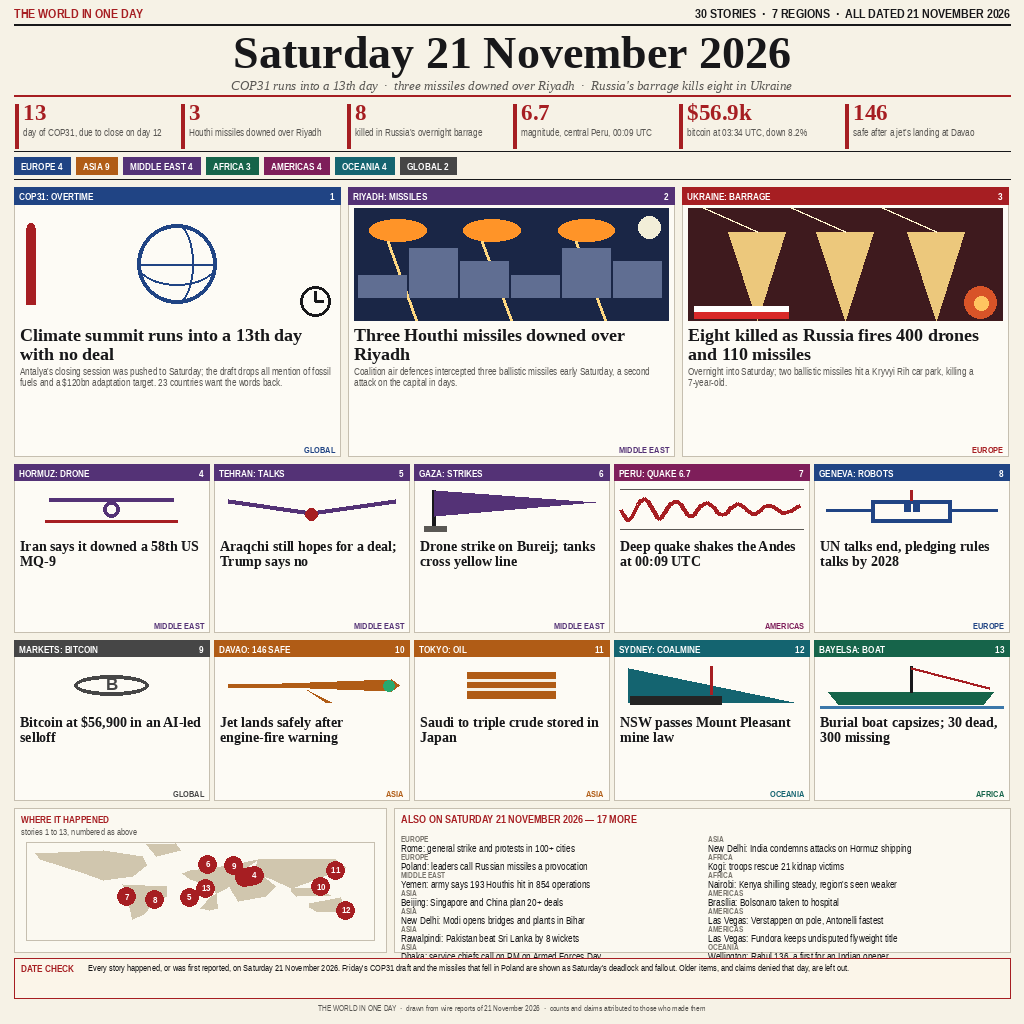
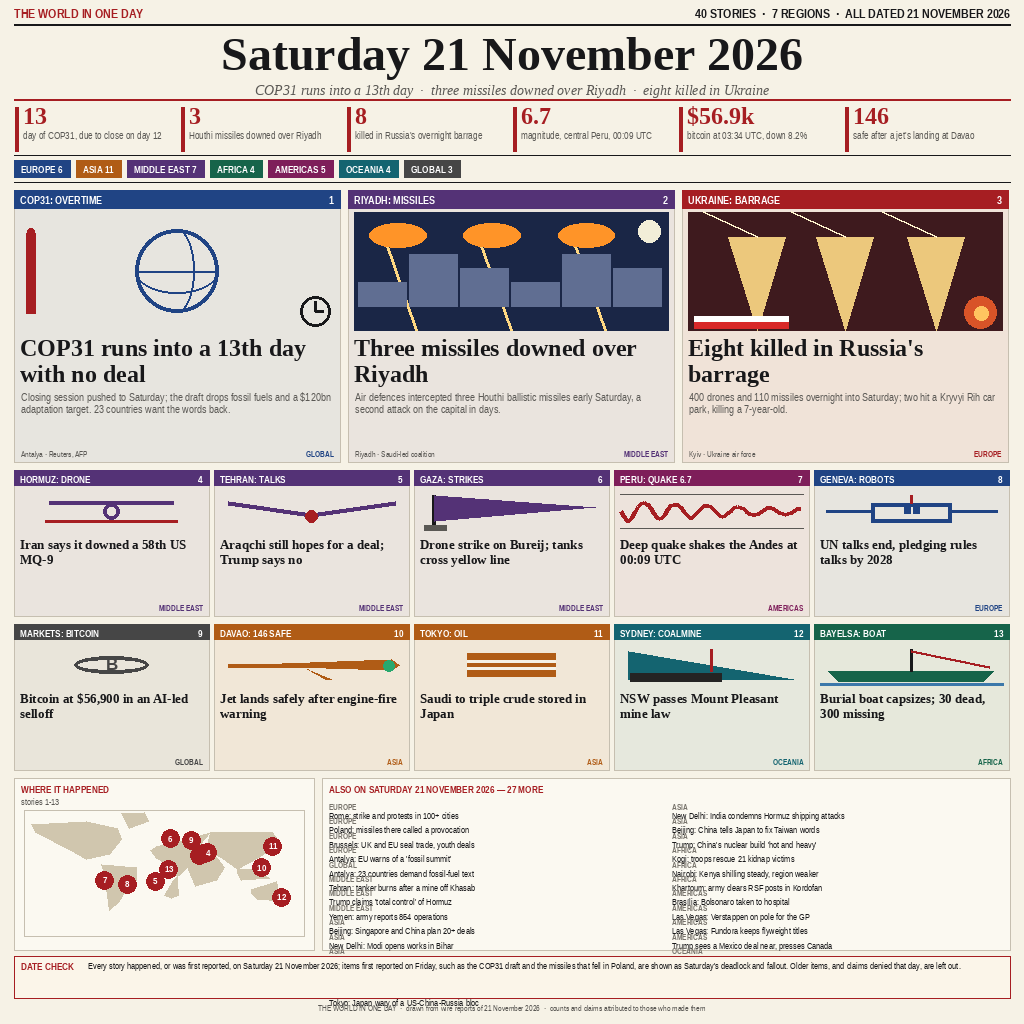
40 dated stories: bigger lead cards, wider story set

diff --git a/tools/render.py b/tools/render.py
@@ -1,5 +1,9 @@
 #!/usr/bin/env python3
-"""Draw 'THE WORLD IN ONE DAY' - Saturday 21 November 2026 (1024x1024)."""
+"""Draw 'THE WORLD IN ONE DAY' - Saturday 21 November 2026 (1024x1024).
+
+The page carries 40 stories from seven regions, all dated to the day, and is
+drawn from fixed inputs: the same code writes the same bytes on every run.
+"""
 import math
 from PIL import Image, ImageDraw, ImageFont
 
@@ -66,42 +70,39 @@ def box(x0, y0, x1, y1, fill=None, outline=GRAY, w=1):
 # ---------------- masthead ----------------
 f_rail = F(NB, 13)
 text(PAD, 5, "THE WORLD IN ONE DAY", f_rail, RED)
-text(W - PAD, 5, "30 STORIES  \u00b7  7 REGIONS  \u00b7  ALL DATED 21 NOVEMBER 2026",
-     f_rail, INK, "ra")
+text(W - PAD, 5, "40 STORIES  \u00b7  7 REGIONS  \u00b7  ALL DATED 21 NOVEMBER 2026", f_rail, INK, "ra")
 rule(24, w=2)
 
-text(W // 2, 27, "Saturday 21 November 2026", F(SB, 46), INK, "ma")
-text(W // 2, 78, "COP31 runs into a 13th day  \u00b7  three missiles downed over Riyadh  \u00b7  Russia's barrage kills eight in Ukraine",
-     F(SI, 13), GRAY, "ma")
-rule(95, col=RED, w=2)
+text(W // 2, 27, "Saturday 21 November 2026", F(SB, 48), INK, "ma")
+text(W // 2, 82, "COP31 runs into a 13th day  \u00b7  three missiles downed over Riyadh  \u00b7  eight killed in Ukraine",
+     F(SI, 14), GRAY, "ma")
+rule(99, col=RED, w=2)
 
-# ---------------- stat strip ----------------
 stats = [("13", "day of COP31, due to close on day 12"),
          ("3", "Houthi missiles downed over Riyadh"),
          ("8", "killed in Russia's overnight barrage"),
          ("6.7", "magnitude, central Peru, 00:09 UTC"),
          ("$56.9k", "bitcoin at 03:34 UTC, down 8.2%"),
          ("146", "safe after a jet's landing at Davao")]
-bx = PAD
 bw = (W - 2 * PAD) // 6
-f_num, f_lab = F(SB, 23), F(NR, 10)
+f_num, f_lab = F(SB, 24), F(NR, 10)
 for i, (num, lab) in enumerate(stats):
-    x0 = bx + i * bw
-    d.rectangle([x0 + 1, 104, x0 + 4, 148], fill=RED)
-    text(x0 + 9, 99, num, f_num, RED)
-    para(x0 + 9, 126, lab, f_lab, bw - 14, GRAY, lh=10, maxlines=2)
-rule(151)
+    x0 = PAD + i * bw
+    d.rectangle([x0 + 1, 107, x0 + 4, 151], fill=RED)
+    text(x0 + 9, 102, num, f_num, RED)
+    para(x0 + 9, 129, lab, f_lab, bw - 14, GRAY, lh=10, maxlines=2)
+rule(155)
 
-regions = [("EUROPE 4", C_EU), ("ASIA 9", C_AS), ("MIDDLE EAST 4", C_ME), ("AFRICA 3", C_AF),
-           ("AMERICAS 4", C_AM), ("OCEANIA 4", C_OC), ("GLOBAL 2", C_GL)]
+regions = [("EUROPE 6", C_EU), ("ASIA 11", C_AS), ("MIDDLE EAST 7", C_ME), ("AFRICA 4", C_AF),
+           ("AMERICAS 5", C_AM), ("OCEANIA 4", C_OC), ("GLOBAL 3", C_GL)]
 f_reg = F(NB, 10)
 rx = PAD
 for lab, col in regions:
     wt = tw(lab, f_reg) + 14
-    d.rectangle([rx, 157, rx + wt, 174], fill=col)
-    text(rx + 7, 160, lab, f_reg, (255, 255, 255))
+    d.rectangle([rx, 160, rx + wt, 177], fill=col)
+    text(rx + 7, 163, lab, f_reg, (255, 255, 255))
     rx += wt + 6
-rule(179)
+rule(182)
 
 # ---------------- pictograms ----------------
 def icon(kind, x0, y0, x1, y1, accent):
@@ -216,6 +217,8 @@ def icon(kind, x0, y0, x1, y1, accent):
         d.rectangle([x0 + 8, y0 + 6, x1 - 8, y1 - 6], outline=accent, width=3)
 
 # ---------------- card ----------------
+# one card = colour bar + pictogram + serif headline + optional deck; the accent
+# colour is the story's region, so the page reads as regions at a glance.
 def card(x0, y0, x1, y1, kind, label, headline, accent, region, hl=14, ic=48, num=None,
          deck=None, bar=15):
     box(x0, y0, x1, y1, fill=(253, 251, 245), outline=(198, 191, 176))
@@ -233,23 +236,46 @@ def card(x0, y0, x1, y1, kind, label, headline, accent, region, hl=14, ic=48, nu
         para(x0 + 6, yy + 3, deck, F(NR, 10), x1 - x0 - 12, GRAY, lh=11, maxlines=4)
     text(x1 - 5, y1 - 12, region, F(NB, 9), accent, "ra")
 
+
+def tint(accent, k=0.10):
+    return tuple(int(CREAM[c] * (1 - k) + accent[c] * k) for c in range(3))
+
+def card(x0, y0, x1, y1, kind, label, headline, accent, region, hl=14, ic=48, num=None,
+         deck=None, bar=15, src=None):
+    box(x0, y0, x1, y1, fill=tint(accent, 0.07), outline=(198, 191, 176))
+    d.rectangle([x0, y0, x1, y0 + bar], fill=accent)
+    f_lab = F(NB, 11 if bar >= 17 else 10)
+    text(x0 + 6, y0 + int(bar * 0.2), label, f_lab, (255, 255, 255))
+    if num is not None:
+        text(x1 - 6, y0 + int(bar * 0.2), str(num), f_lab, (255, 255, 255), "ra")
+    iw = x1 - x0 - 12
+    icon(kind, x0 + 6, y0 + bar + 4, x0 + 6 + iw, y0 + bar + 4 + ic, accent)
+    yy = y0 + bar + 8 + ic
+    yy = para(x0 + 6, yy, headline, F(SB, hl), x1 - x0 - 12, INK, lh=hl + 2, maxlines=3)
+    if deck:
+        yy = para(x0 + 7, yy + 4, deck, F(NR, 11), x1 - x0 - 14, GRAY, lh=12, maxlines=3)
+    base = y1 - 13
+    text(x1 - 6, base, region, F(NB, 8), accent, "ra")
+    if src:
+        text(x0 + 7, base, src, F(NR, 8), GRAY)
+
 LEADS = [
-    dict(kind="globe", label="COP31: OVERTIME", accent=C_EU, region="GLOBAL",
-         headline="Climate summit runs into a 13th day with no deal",
-         deck="Antalya's closing session was pushed to Saturday; the draft drops all mention of fossil fuels and a $120bn adaptation target. 23 countries want the words back."),
-    dict(kind="missiles", label="RIYADH: MISSILES", accent=C_ME, region="MIDDLE EAST",
-         headline="Three Houthi missiles downed over Riyadh",
-         deck="Coalition air defences intercepted three ballistic missiles early Saturday, a second attack on the capital in days."),
-    dict(kind="barrage", label="UKRAINE: BARRAGE", accent=RED, region="EUROPE",
-         headline="Eight killed as Russia fires 400 drones and 110 missiles",
-         deck="Overnight into Saturday; two ballistic missiles hit a Kryvyi Rih car park, killing a 7-year-old."),
+    dict(kind="globe", label="COP31: OVERTIME", accent=C_EU, region="GLOBAL", src="Antalya \u00b7 Reuters, AFP",
+         headline="COP31 runs into a 13th day with no deal",
+         deck="Closing session pushed to Saturday; the draft drops fossil fuels and a $120bn adaptation target. 23 countries want the words back."),
+    dict(kind="missiles", label="RIYADH: MISSILES", accent=C_ME, region="MIDDLE EAST", src="Riyadh \u00b7 Saudi-led coalition",
+         headline="Three missiles downed over Riyadh",
+         deck="Air defences intercepted three Houthi ballistic missiles early Saturday, a second attack on the capital in days."),
+    dict(kind="barrage", label="UKRAINE: BARRAGE", accent=RED, region="EUROPE", src="Kyiv \u00b7 Ukraine air force",
+         headline="Eight killed in Russia's barrage",
+         deck="400 drones and 110 missiles overnight into Saturday; two hit a Kryvyi Rih car park, killing a 7-year-old."),
 ]
-cy0, cy1 = 187, 456
+cy0, cy1 = 190, 462
 cw = (W - 2 * PAD - 2 * 8) // 3
 for i, s in enumerate(LEADS):
     x0 = PAD + i * (cw + 8)
     card(x0, cy0, x0 + cw, cy1, s["kind"], s["label"], s["headline"], s["accent"], s["region"],
-         hl=18, ic=112, num=i + 1, deck=s["deck"], bar=17)
+         hl=24, ic=118, num=i + 1, deck=s["deck"], bar=18, src=s["src"])
 
 ROW2 = [("drone", "HORMUZ: DRONE", "Iran says it downed a 58th US MQ-9", C_ME, "MIDDLE EAST", 4),
         ("handshake", "TEHRAN: TALKS", "Araqchi still hopes for a deal; Trump says no", C_ME, "MIDDLE EAST", 5),
@@ -266,19 +292,18 @@ def draw_row(row, y0, y1):
     cwid = (W - 2 * PAD - 4 * 5) // 5
     for i, (kind, label, head, accent, region, num) in enumerate(row):
         x0 = PAD + i * (cwid + 5)
-        card(x0, y0, x0 + cwid, y1, kind, label, head, accent, region, hl=14, ic=50, num=num, bar=16)
+        card(x0, y0, x0 + cwid, y1, kind, label, head, accent, region, hl=13, ic=44, num=num, bar=15)
 
-draw_row(ROW2, 464, 632)
-draw_row(ROW3, 640, 800)
+draw_row(ROW2, 470, 616)
+draw_row(ROW3, 624, 770)
 
-# ---------------- bottom ----------------
-MY0, MY1 = 808, 952
-mx1 = PAD + 372
+MY0, MY1 = 778, 950
+mx1 = PAD + 300
 box(PAD, MY0, mx1, MY1, fill=(251, 249, 241), outline=(198, 191, 176))
 text(PAD + 7, MY0 + 5, "WHERE IT HAPPENED", F(NB, 10), RED)
-text(PAD + 7, MY0 + 18, "stories 1 to 13, numbered as above", F(NR, 9), GRAY)
-mw0, mw1 = PAD + 12, mx1 - 12
-mh0, mh1 = MY0 + 34, MY1 - 12
+text(PAD + 7, MY0 + 18, "stories 1-13", F(NR, 9), GRAY)
+mw0, mw1 = PAD + 10, mx1 - 10
+mh0, mh1 = MY0 + 32, MY1 - 14
 LAND = (208, 198, 174)
 cons = [[(-170, 65), (-100, 70), (-60, 60), (-55, 45), (-70, 25), (-100, 18), (-120, 30), (-165, 55)],
         [(-80, 12), (-35, 8), (-35, -10), (-50, -25), (-58, -40), (-70, -50), (-76, 0)],
@@ -307,44 +332,54 @@ for lon, lat, n in dots:
 ax1 = W - PAD
 box(mx1 + 8, MY0, ax1, MY1, fill=(251, 249, 241), outline=(198, 191, 176))
 ALSO = [
-    ("EUROPE", "Rome: general strike and protests in 100+ cities"),
-    ("EUROPE", "Poland: leaders call Russian missiles a provocation"),
-    ("MIDDLE EAST", "Yemen: army says 193 Houthis hit in 854 operations"),
+    ("EUROPE", "Rome: strike and protests in 100+ cities"),
+    ("EUROPE", "Poland: missiles there called a provocation"),
+    ("EUROPE", "Brussels: UK and EU seal trade, youth deals"),
+    ("EUROPE", "Antalya: EU warns of a 'fossil summit'"),
+    ("GLOBAL", "Antalya: 23 countries demand fossil-fuel text"),
+    ("MIDDLE EAST", "Tehran: tanker burns after a mine off Khasab"),
+    ("MIDDLE EAST", "Trump claims 'total control' of Hormuz"),
+    ("MIDDLE EAST", "Yemen: army reports 854 operations"),
     ("ASIA", "Beijing: Singapore and China plan 20+ deals"),
-    ("ASIA", "New Delhi: Modi opens bridges and plants in Bihar"),
+    ("ASIA", "New Delhi: Modi opens works in Bihar"),
     ("ASIA", "Rawalpindi: Pakistan beat Sri Lanka by 8 wickets"),
-    ("ASIA", "Dhaka: service chiefs call on PM on Armed Forces Day"),
-    ("ASIA", "Jakarta: Indonesia and EU finish CEPA before signing"),
-    ("ASIA", "Tokyo: Japan wary of regular US-China-Russia summits"),
-    ("ASIA", "New Delhi: India condemns attacks on Hormuz shipping"),
+    ("ASIA", "Dhaka: service chiefs call on PM on Forces Day"),
+    ("ASIA", "Jakarta: Indonesia and EU finish CEPA talks"),
+    ("ASIA", "Tokyo: Japan wary of a US-China-Russia bloc"),
+    ("ASIA", "New Delhi: India condemns Hormuz shipping attacks"),
+    ("ASIA", "Beijing: China tells Japan to fix Taiwan words"),
+    ("ASIA", "Trump: China's nuclear build 'hot and heavy'"),
     ("AFRICA", "Kogi: troops rescue 21 kidnap victims"),
-    ("AFRICA", "Nairobi: Kenya shilling steady, region's seen weaker"),
+    ("AFRICA", "Nairobi: Kenya shilling steady, region weaker"),
+    ("AFRICA", "Khartoum: army clears RSF posts in Kordofan"),
     ("AMERICAS", "Bras\u00edlia: Bolsonaro taken to hospital"),
-    ("AMERICAS", "Las Vegas: Verstappen on pole, Antonelli fastest"),
-    ("AMERICAS", "Las Vegas: Fundora keeps undisputed flyweight title"),
-    ("OCEANIA", "Wellington: Rahul 136, a first for an Indian opener"),
-    ("OCEANIA", "Melbourne: Kangaroos into 4th straight AFLW final"),
+    ("AMERICAS", "Las Vegas: Verstappen on pole for the GP"),
+    ("AMERICAS", "Las Vegas: Fundora keeps flyweight titles"),
+    ("AMERICAS", "Trump sees a Mexico deal near, presses Canada"),
+    ("OCEANIA", "Wellington: Rahul 136, a first for an opener"),
+    ("OCEANIA", "Melbourne: Kangaroos into a 4th AFLW final"),
+    ("OCEANIA", "Melbourne: Cummins keeps the captaincy"),
 ]
-f_al, f_alr = F(NR, 10), F(NB, 8)
-text(mx1 + 15, MY0 + 4, "ALSO ON SATURDAY 21 NOVEMBER 2026 \u2014 %d MORE" % len(ALSO), F(NB, 11), RED)
+f_al, f_alr = F(NR, 9), F(NB, 8)
+text(mx1 + 15, MY0 + 5, "ALSO ON SATURDAY 21 NOVEMBER 2026 \u2014 %d MORE" % len(ALSO), F(NB, 10), RED)
 col_w = (ax1 - mx1 - 26) // 2
 half = (len(ALSO) + 1) // 2
 for i, (reg, line) in enumerate(ALSO):
     col, row = i // half, i % half
     x = mx1 + 15 + col * (col_w + 8)
-    y = MY0 + 26 + row * 18
+    y = MY0 + 24 + row * 14.4
     text(x, y, reg, f_alr, (120, 116, 108))
     for k, ln in enumerate(wrap(line, f_al, col_w - 4)[:2]):
-        text(x, y + 8 + k * 9.4, ln, f_al, INK)
+        text(x, y + 8 + k * 8.4, ln, f_al, INK)
 
-DY0 = 958
+DY0 = 956
 box(PAD, DY0, W - PAD, 998, fill=(251, 245, 233), outline=RED)
 text(PAD + 7, DY0 + 4, "DATE CHECK", F(NB, 10), RED)
 para(PAD + 74, DY0 + 4,
-     "Every story happened, or was first reported, on Saturday 21 November 2026. Friday's COP31 draft and the missiles that fell in Poland are shown as Saturday's deadlock and fallout. Older items, and claims denied that day, are left out.",
+     "Every story happened, or was first reported, on Saturday 21 November 2026; items first reported on Friday, such as the COP31 draft and the missiles that fell in Poland, are shown as Saturday's deadlock and fallout. Older items, and claims denied that day, are left out.",
      F(NR, 9), W - 2 * PAD - 84, INK, lh=11, maxlines=3)
 text(W // 2, 1003, "THE WORLD IN ONE DAY  \u00b7  drawn from wire reports of 21 November 2026  \u00b7  counts and claims attributed to those who made them",
      F(NR, 8), GRAY, "ma")
 
-img.save("/home/ubuntu/makefun-news/entry.png", optimize=True)
-print("saved", img.size)
+img.save("/home/ubuntu/makefun-news/entry4.png", optimize=True)
+print("saved")

diff --git a/README.md b/README.md
@@ -4,7 +4,7 @@
 [![rank](https://make.fun/badge/news-image-20261121/abdulbinjai32/world-news-21-nov-2026/rank.svg)](https://make.fun/bounty/news-image-20261121/leaderboard?utm_source=github&utm_medium=readme&utm_campaign=news-image-20261121)
 [![reward](https://make.fun/badge/news-image-20261121/abdulbinjai32/world-news-21-nov-2026/reward.svg)](https://make.fun/bounty/news-image-20261121?utm_source=github&utm_medium=readme&utm_campaign=news-image-20261121)
 
-One page of Saturday 21 November 2026's world news: 30 stories across seven regions,
+One page of Saturday 21 November 2026's world news: 40 stories across seven regions,
 every one of them dated, drawn as a front page and rendered deterministically to a
 1024x1024 PNG. Built by an AI agent for make.fun's "Sum up 21 November's world news in one image".
 
